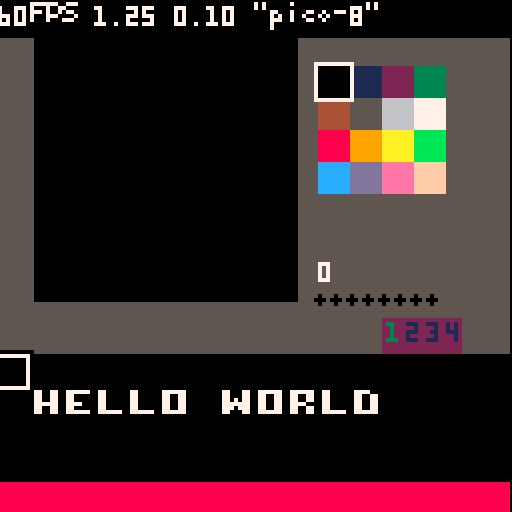
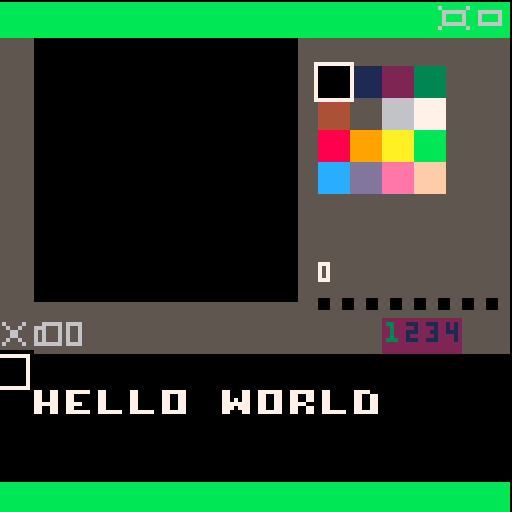
Update the editor #15

diff --git a/sys/editor/editor.py b/sys/editor/editor.py
@@ -97,13 +97,15 @@ class Widget(object):
                     pset(self.x1+idx, self.y1+y, pixel)
 
 class Flags(object):
-    def __init__(self):
+    def __init__(self, state):
+        self.state = state
         self.values = [1, 2, 4, 8, 16, 32, 64, 128]
         self.flags = {}
         for i in self.values:
             self.flags[i] = 0
 
     def update(self, idx_sprite):
+        idx = 0
         for i in [1, 2, 4, 8, 16, 32, 64, 128]:
             flag = fget(idx_sprite, i)
             color = 0
@@ -111,6 +113,12 @@ class Flags(object):
                 color = 7
 
             self.flags[i] = color
+
+
+            if self.state.mouse_state and point_in_rect(self.state.mouse_x, self.state.mouse_y, [80+idx, 74, 82+idx, 76]):
+                fset(idx_sprite, i, not flag)
+
+            idx += 6
 
     def draw(self):
         idx = 0
@@ -129,7 +137,7 @@ class SpritesMap(object):
                             Button(101, 79, 105, 87, 2, "2"),
                             Button(106, 79, 110, 87, 2, "3"),
                             Button(111, 79, 115, 87, 2, "4")]
-        self.flags = Flags()
+        self.flags = Flags(state)
 
     def update(self):
         self.state.on_current_sprite = False
@@ -207,9 +215,9 @@ class PalettePicker(object):
             _mouse_y = self.state.mouse_y
 
             if point_in_rect(self.state.mouse_x, self.state.mouse_y, [self.state.idx_x_zoom_sprite,
-                                                                         self.state.idx_y_zoom_sprite,
-                                                                         self.state.idx_x_zoom_sprite+8*8,
-                                                                         self.state.idx_y_zoom_sprite+8*8]):
+                                                                      self.state.idx_y_zoom_sprite,
+                                                                      self.state.idx_x_zoom_sprite+8*8,
+                                                                      self.state.idx_y_zoom_sprite+8*8]):
                 idx_x = math.floor((self.state.mouse_x - self.state.idx_x_zoom_sprite) / 8*self.state.zoom_sprite)
                 idx_y = math.floor((self.state.mouse_y - self.state.idx_y_zoom_sprite) / 8*self.state.zoom_sprite)
 
@@ -242,9 +250,23 @@ class PalettePicker(object):
         current_selection_y = (self.idx_y + 8*self.current_selection_y) - 1
         rect(current_selection_x, current_selection_y, current_selection_x+9, current_selection_y+9, 7)
 
+def shift(direction, count, myList):
+    myLen = len(myList)
+    if direction == "up":
+        return [myList[i % myLen] for i in range(count, count + myLen)]
+    elif direction == "down":
+        return [myList[-i] for i in range(count, count - myLen, -1)]
+    elif direction == "left":
+        tlist = list(zip(*myList))
+        return list(map(list, zip(*[tlist[i % myLen] for i in range(count, count + myLen)])))
+    elif direction == "right":
+        tlist = list(zip(*myList))
+        return map(list, zip(*[tlist[-i] for i in range(count, count - myLen, -1)]))
+
 class SpriteEditor(object):
-    def __init__(self, state):
+    def __init__(self, state, tools):
         self.state = state
+        self.tools = tools
         self.pp = PalettePicker(state)
 
     def update(self):
@@ -253,6 +275,26 @@ class SpriteEditor(object):
         if btnp(4):
             self.state.idx_zoom_sprite = (self.state.idx_zoom_sprite + 1) % len(self.state.sprite_available_zooms)
             self.state.zoom_sprite = self.state.sprite_available_zooms[self.state.idx_zoom_sprite]
+
+        if btnp(0):
+            buffer = self.tools.get_current_formatted_buffer()
+            shift_buffer = shift("left", 1, buffer)
+            self.tools.paste_formatted_buffer(shift_buffer)
+
+        if btnp(1):
+            buffer = self.tools.get_current_formatted_buffer()
+            shift_buffer = shift("right", 1, buffer)
+            self.tools.paste_formatted_buffer(shift_buffer)
+
+        if btnp(2):
+            buffer = self.tools.get_current_formatted_buffer()
+            shift_buffer = shift("up", 1, buffer)
+            self.tools.paste_formatted_buffer(shift_buffer)
+
+        if btnp(3):
+            buffer = self.tools.get_current_formatted_buffer()
+            shift_buffer = shift("down", 1, buffer)
+            self.tools.paste_formatted_buffer(shift_buffer)
 
         if point_in_rect(self.state.mouse_x, self.state.mouse_y, [self.state.idx_x_zoom_sprite,
                                                                   self.state.idx_y_zoom_sprite,
@@ -400,6 +442,47 @@ class ToolsEditor(object):
             ])
         ]
 
+    def get_current_buffer(self):
+        buffer_copy = [0] * (8*self.state.zoom_sprite*8*self.state.zoom_sprite)
+
+        for x in range(0, 8*self.state.zoom_sprite):
+            for y in range(0, 8*self.state.zoom_sprite):
+                buffer_copy[x+y*8*self.state.zoom_sprite] = sget(self.state.x_zoom_sprite + x,
+                                                                 self.state.y_zoom_sprite + y)
+
+        return buffer_copy
+
+    def get_current_formatted_buffer(self):
+        buffer_copy = [[]] * (8*self.state.zoom_sprite)
+        for i in range(0, 8*self.state.zoom_sprite):
+            buffer_copy[i] = [0] * (8*self.state.zoom_sprite)
+
+        for y in range(0, 8*self.state.zoom_sprite):
+            for x in range(0, 8*self.state.zoom_sprite):
+                buffer_copy[y][x] = sget(self.state.x_zoom_sprite + x,
+                                         self.state.y_zoom_sprite + y)
+
+        return buffer_copy
+
+    def copy_buffer(self):
+        self.buffer_copy = self.get_current_buffer()
+
+    def paste_formatted_buffer(self, buffer):
+        l = []
+        for i in buffer:
+            l.extend(i)
+        self.paste_buffer(l)
+
+    def paste_buffer(self, buffer_copy=None):
+        if not buffer_copy:
+            buffer_copy = self.buffer_copy
+
+        for x in range(0, 8*self.state.zoom_sprite):
+            for y in range(0, 8*self.state.zoom_sprite):
+                sset(self.state.x_zoom_sprite + x,
+                     self.state.y_zoom_sprite + y,
+                     buffer_copy[x+y*8*self.state.zoom_sprite])
+
     def update(self):
         if self.state.mouse_state == 1:
             for widget in self.widgets:
@@ -413,19 +496,10 @@ class ToolsEditor(object):
                             sset(self.state.x_zoom_sprite + x, self.state.y_zoom_sprite + y, 0)
 
                 if widget.name == "COPY":
-                    self.buffer_copy = [0] * (8*self.state.zoom_sprite*8*self.state.zoom_sprite)
-
-                    for x in range(0, 8*self.state.zoom_sprite):
-                        for y in range(0, 8*self.state.zoom_sprite):
-                            self.buffer_copy[x+y*8*self.state.zoom_sprite] = sget(self.state.x_zoom_sprite + x,
-                                                                                  self.state.y_zoom_sprite + y)
+                    self.copy_buffer()
 
                 if widget.name == "PASTE":
-                    for x in range(0, 8*self.state.zoom_sprite):
-                        for y in range(0, 8*self.state.zoom_sprite):
-                            sset(self.state.x_zoom_sprite + x,
-                                 self.state.y_zoom_sprite + y,
-                                 self.buffer_copy[x+y*8*self.state.zoom_sprite])
+                    self.paste_buffer()
 
             widget.reset()
 
@@ -437,11 +511,12 @@ class ToolsEditor(object):
 class Editor(object):
     def __init__(self):
         self.state = State()
-
-        self.windows = [SpriteEditor(self.state), MapEditor(self.state)]
-        self.current_window = self.windows[0]
         self.tools = ToolsEditor(self.state)
         self.sm = SpritesMap(self.state)
+
+        self.windows = [SpriteEditor(self.state, self.tools), MapEditor(self.state)]
+        self.current_window = self.windows[0]
+
 
         self.widgets = [
             Widget("SPRITE EDITOR", 110, 1, [

diff --git a/examples/helloworld/helloworld.py b/examples/helloworld/helloworld.py
@@ -1,8 +1,11 @@
+T = 0
+
 def _init():
     pass
 
 def _update():
-    pass
+    global T
+    T = T + 1
 
 def _draw_part1():
     px8_print("Hello World", 40, 64, 1)
@@ -23,6 +26,20 @@ def _draw_part1():
 def _draw_part2():
     spr(1, 0, 60)
 
+def _draw_part3():
+    global T
+    for i in range(1, 12):
+        for j0 in range(0, 7):
+            j = 7 - j0
+            col = 7 + j - 1
+            t1 = T + i * 4 - j * 2
+            x = cos(j0) * 5
+            y = 38 + j + cos(t1/50) * 5
+            pal(7, col)
+            spr(16+i, 8+i*8+x, y)
+
 def _draw():
+    cls()
     #_draw_part1()
-    _draw_part2()
+    #_draw_part2()
+    _draw_part3()
